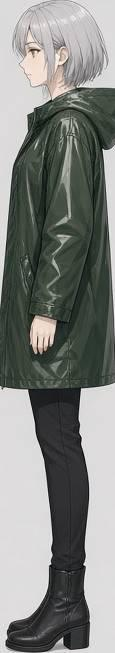
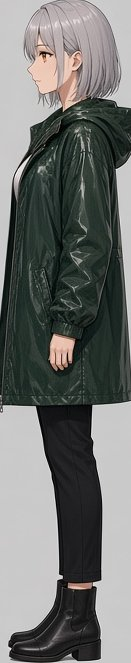
Use the original Sera Voss sheets as the fixture.
The avatar, expression grid, turnaround, coral outfit, and emerald dress replace the redrawn copies. Board crops are cut from those sheets again.

diff --git a/scripts/crop_sera.py b/scripts/crop_sera.py
@@ -1,8 +1,7 @@
 #!/usr/bin/env python3
-"""Cut Sera Voss board stills out of the sheets in docs/fixtures/sera-voss.
+"""Cut Sera Voss board stills out of the original sheets in docs/fixtures/sera-voss.
 
-The sheets are the demo source. This only slices on the gray gaps, so a
-re-run does not redraw the character.
+The sheets are the source art. This only slices on the gray gaps.
 """
 
 from pathlib import Path
@@ -18,10 +17,11 @@ EXPRESSIONS = ['neutral', 'smile', 'laugh', 'sad', 'angry', 'surprised', 'blush'
 VIEWS = ['front', 'three-quarter', 'side', 'back']
 
 
-def contents(path, min_col, min_row):
+def sheet_tiles(path, expect_rows, expect_cols, min_col, min_row):
     image = np.asarray(Image.open(path).convert('RGB'))
-    corner = image[:8, :8].reshape(-1, 3).astype(np.int16).mean(axis=0)
-    gutter = np.abs(image.astype(np.int16) - corner).sum(axis=2) < 45
+    corner = image[:12, :12].reshape(-1, 3).astype(np.int16).mean(axis=0)
+    distance = np.abs(image.astype(np.int16) - corner).sum(axis=2)
+    gutter = distance < 45
 
     def bands(mask, min_gap):
         found = []
@@ -48,30 +48,32 @@ def contents(path, min_col, min_row):
             pieces.append((cursor, length))
         return pieces
 
-    rows = spans(bands(gutter.mean(axis=1) > 0.92, 8), image.shape[0], min_row)
-    cols = spans(bands(gutter.mean(axis=0) > 0.88, 8), image.shape[1], min_col)
+    # A wide sheet is mostly gray on each row, so the row test stays strict.
+    # The expression grid needs a looser row test because the gaps are short.
+    attempts = ((0.92, 0.88), (0.70, 0.85), (0.55, 0.85))
     pil = Image.fromarray(image)
-    return [pil.crop((col[0], row[0], col[1], row[1])) for row in rows for col in cols]
+    for row_frac, col_frac in attempts:
+        rows = spans(bands(gutter.mean(axis=1) > row_frac, 8), image.shape[0], min_row)
+        cols = spans(bands(gutter.mean(axis=0) > col_frac, 8), image.shape[1], min_col)
+        if len(rows) == expect_rows and len(cols) == expect_cols:
+            return [pil.crop((col[0], row[0], col[1], row[1])) for row in rows for col in cols]
+    raise SystemExit(f'{path.name}: expected {expect_rows}x{expect_cols} cells.')
 
 
 def save(image, path):
-    image.convert('RGB').save(path, quality=74, optimize=True)
+    image.convert('RGB').save(path, quality=85, optimize=True)
 
 
 def main():
-    expressions = contents(SHEETS / 'expressions.jpg', 80, 80)
-    if len(expressions) != 9:
-        raise SystemExit(f'Expected 9 expression cells, found {len(expressions)}.')
+    expressions = sheet_tiles(SHEETS / 'expressions.jpg', 3, 3, 80, 80)
     for name, tile in zip(EXPRESSIONS, expressions):
         save(tile, DOCS / f'sera-{name}.jpg')
-    turns = contents(SHEETS / 'turnaround.jpg', 60, 200)
-    if len(turns) != 4:
-        raise SystemExit(f'Expected 4 turnaround views, found {len(turns)}.')
+    turns = sheet_tiles(SHEETS / 'turnaround.jpg', 1, 4, 60, 200)
     for name, tile in zip(VIEWS, turns):
         save(tile, DOCS / f'sera-turn-{name}.jpg')
-    save(Image.open(SHEETS / 'avatar.jpg'), DOCS / 'sera-avatar.jpg')
-    save(Image.open(SHEETS / 'coral.jpg'), DOCS / 'sera-coral.jpg')
-    save(Image.open(SHEETS / 'emerald.jpg'), DOCS / 'sera-emerald.jpg')
+    save(Image.open(SHEETS / 'avatar.png'), DOCS / 'sera-avatar.jpg')
+    save(Image.open(SHEETS / 'outfit-coral-bikini.jpg'), DOCS / 'sera-coral.jpg')
+    save(Image.open(SHEETS / 'outfit-emerald-dress.jpg'), DOCS / 'sera-emerald.jpg')
 
 
 if __name__ == '__main__':

diff --git a/README.md b/README.md
@@ -206,7 +206,7 @@ Turn on **Debug mode** under Generate. The log shows each job's request summary,
 
 ## Example character
 
-`docs/fixtures/sera-voss/` is Sera Voss, the fixture character for demos and tests. She is not a real person: short silver bob, amber eyes, dark green raincoat, plus a coral sarong and an emerald dress. `docs/examples/sera-*.jpg` are the board crops. No `OPENROUTER_API_KEY` or `FAL_KEY` was set, so nothing was billed to a provider. With a key, the same board is sent as reference images to a model that accepts them.
+`docs/fixtures/sera-voss/` is Sera Voss, the fixture character for demos and tests. She is not a real person: short silver bob, amber eyes, dark green raincoat, plus a coral sarong and an emerald dress. The folder holds the original sheets (`avatar.png`, `expressions.jpg`, `turnaround.jpg`, `outfit-coral-bikini.jpg`, `outfit-emerald-dress.jpg`). `docs/examples/sera-*.jpg` are the board crops from those sheets (`scripts/crop_sera.py`). No `OPENROUTER_API_KEY` or `FAL_KEY` was set, so nothing was billed to a provider. With a key, the same board is sent as reference images to a model that accepts them.
 
 ## Develop
 
